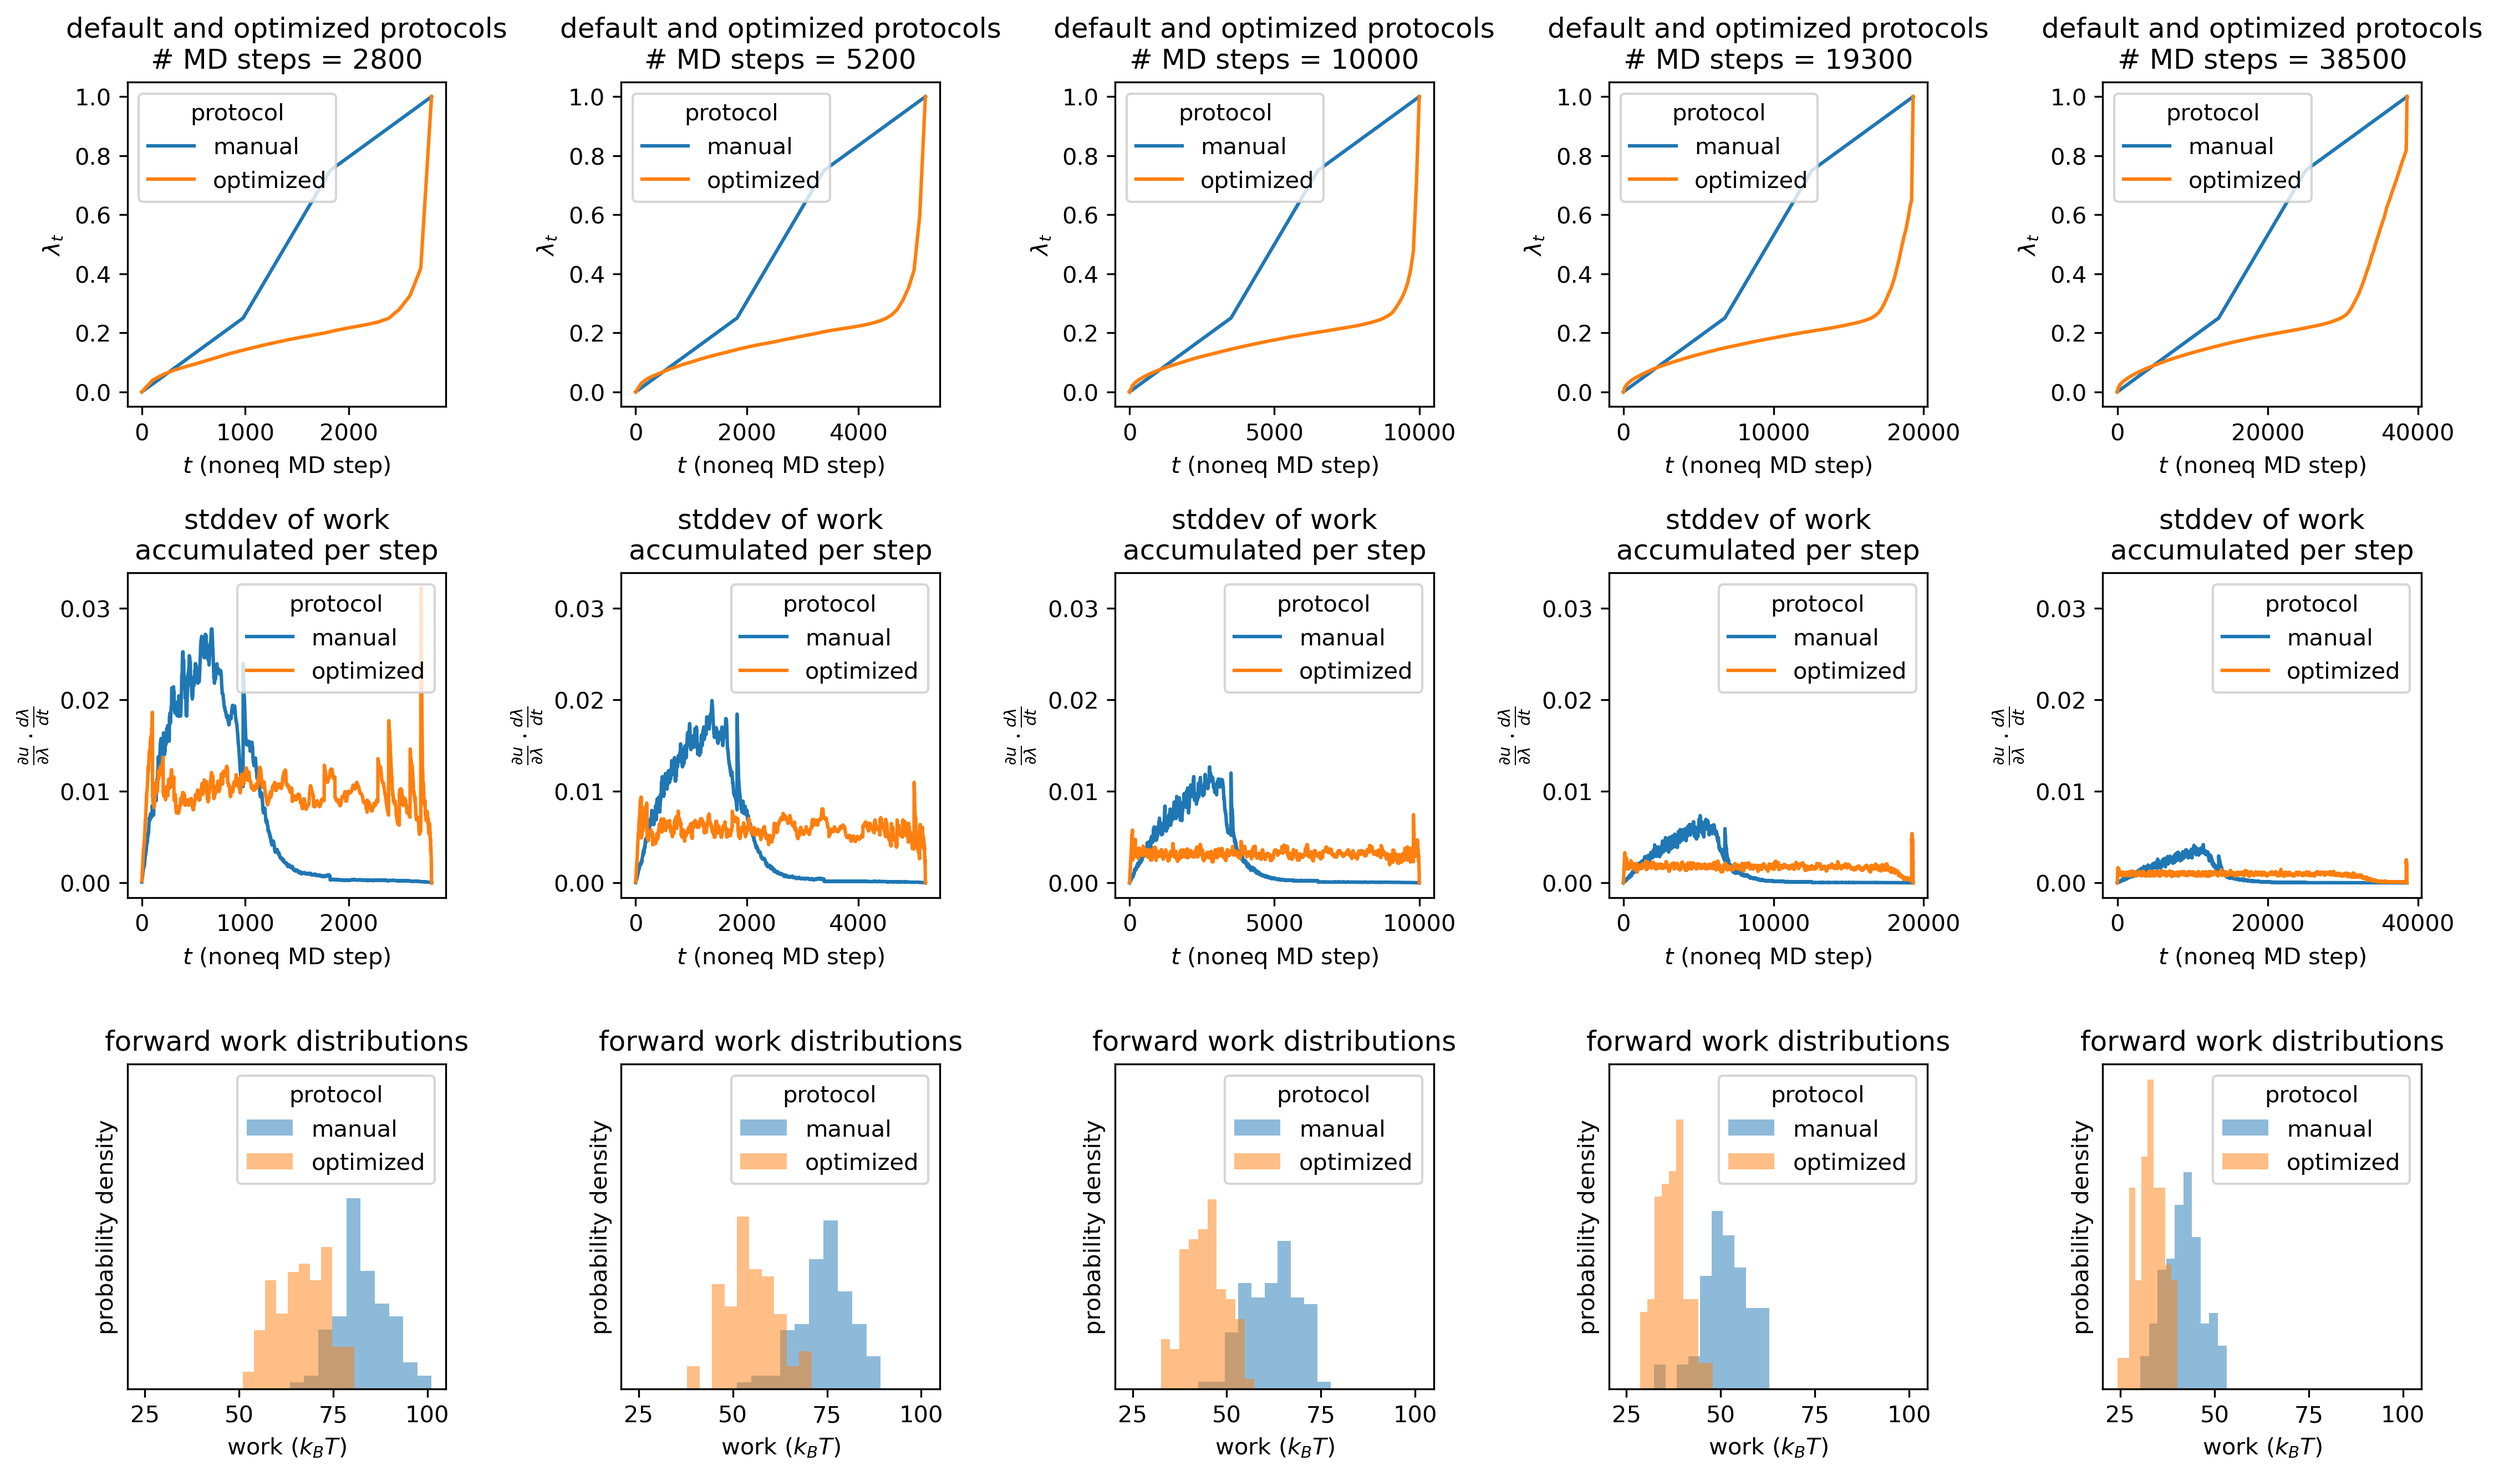
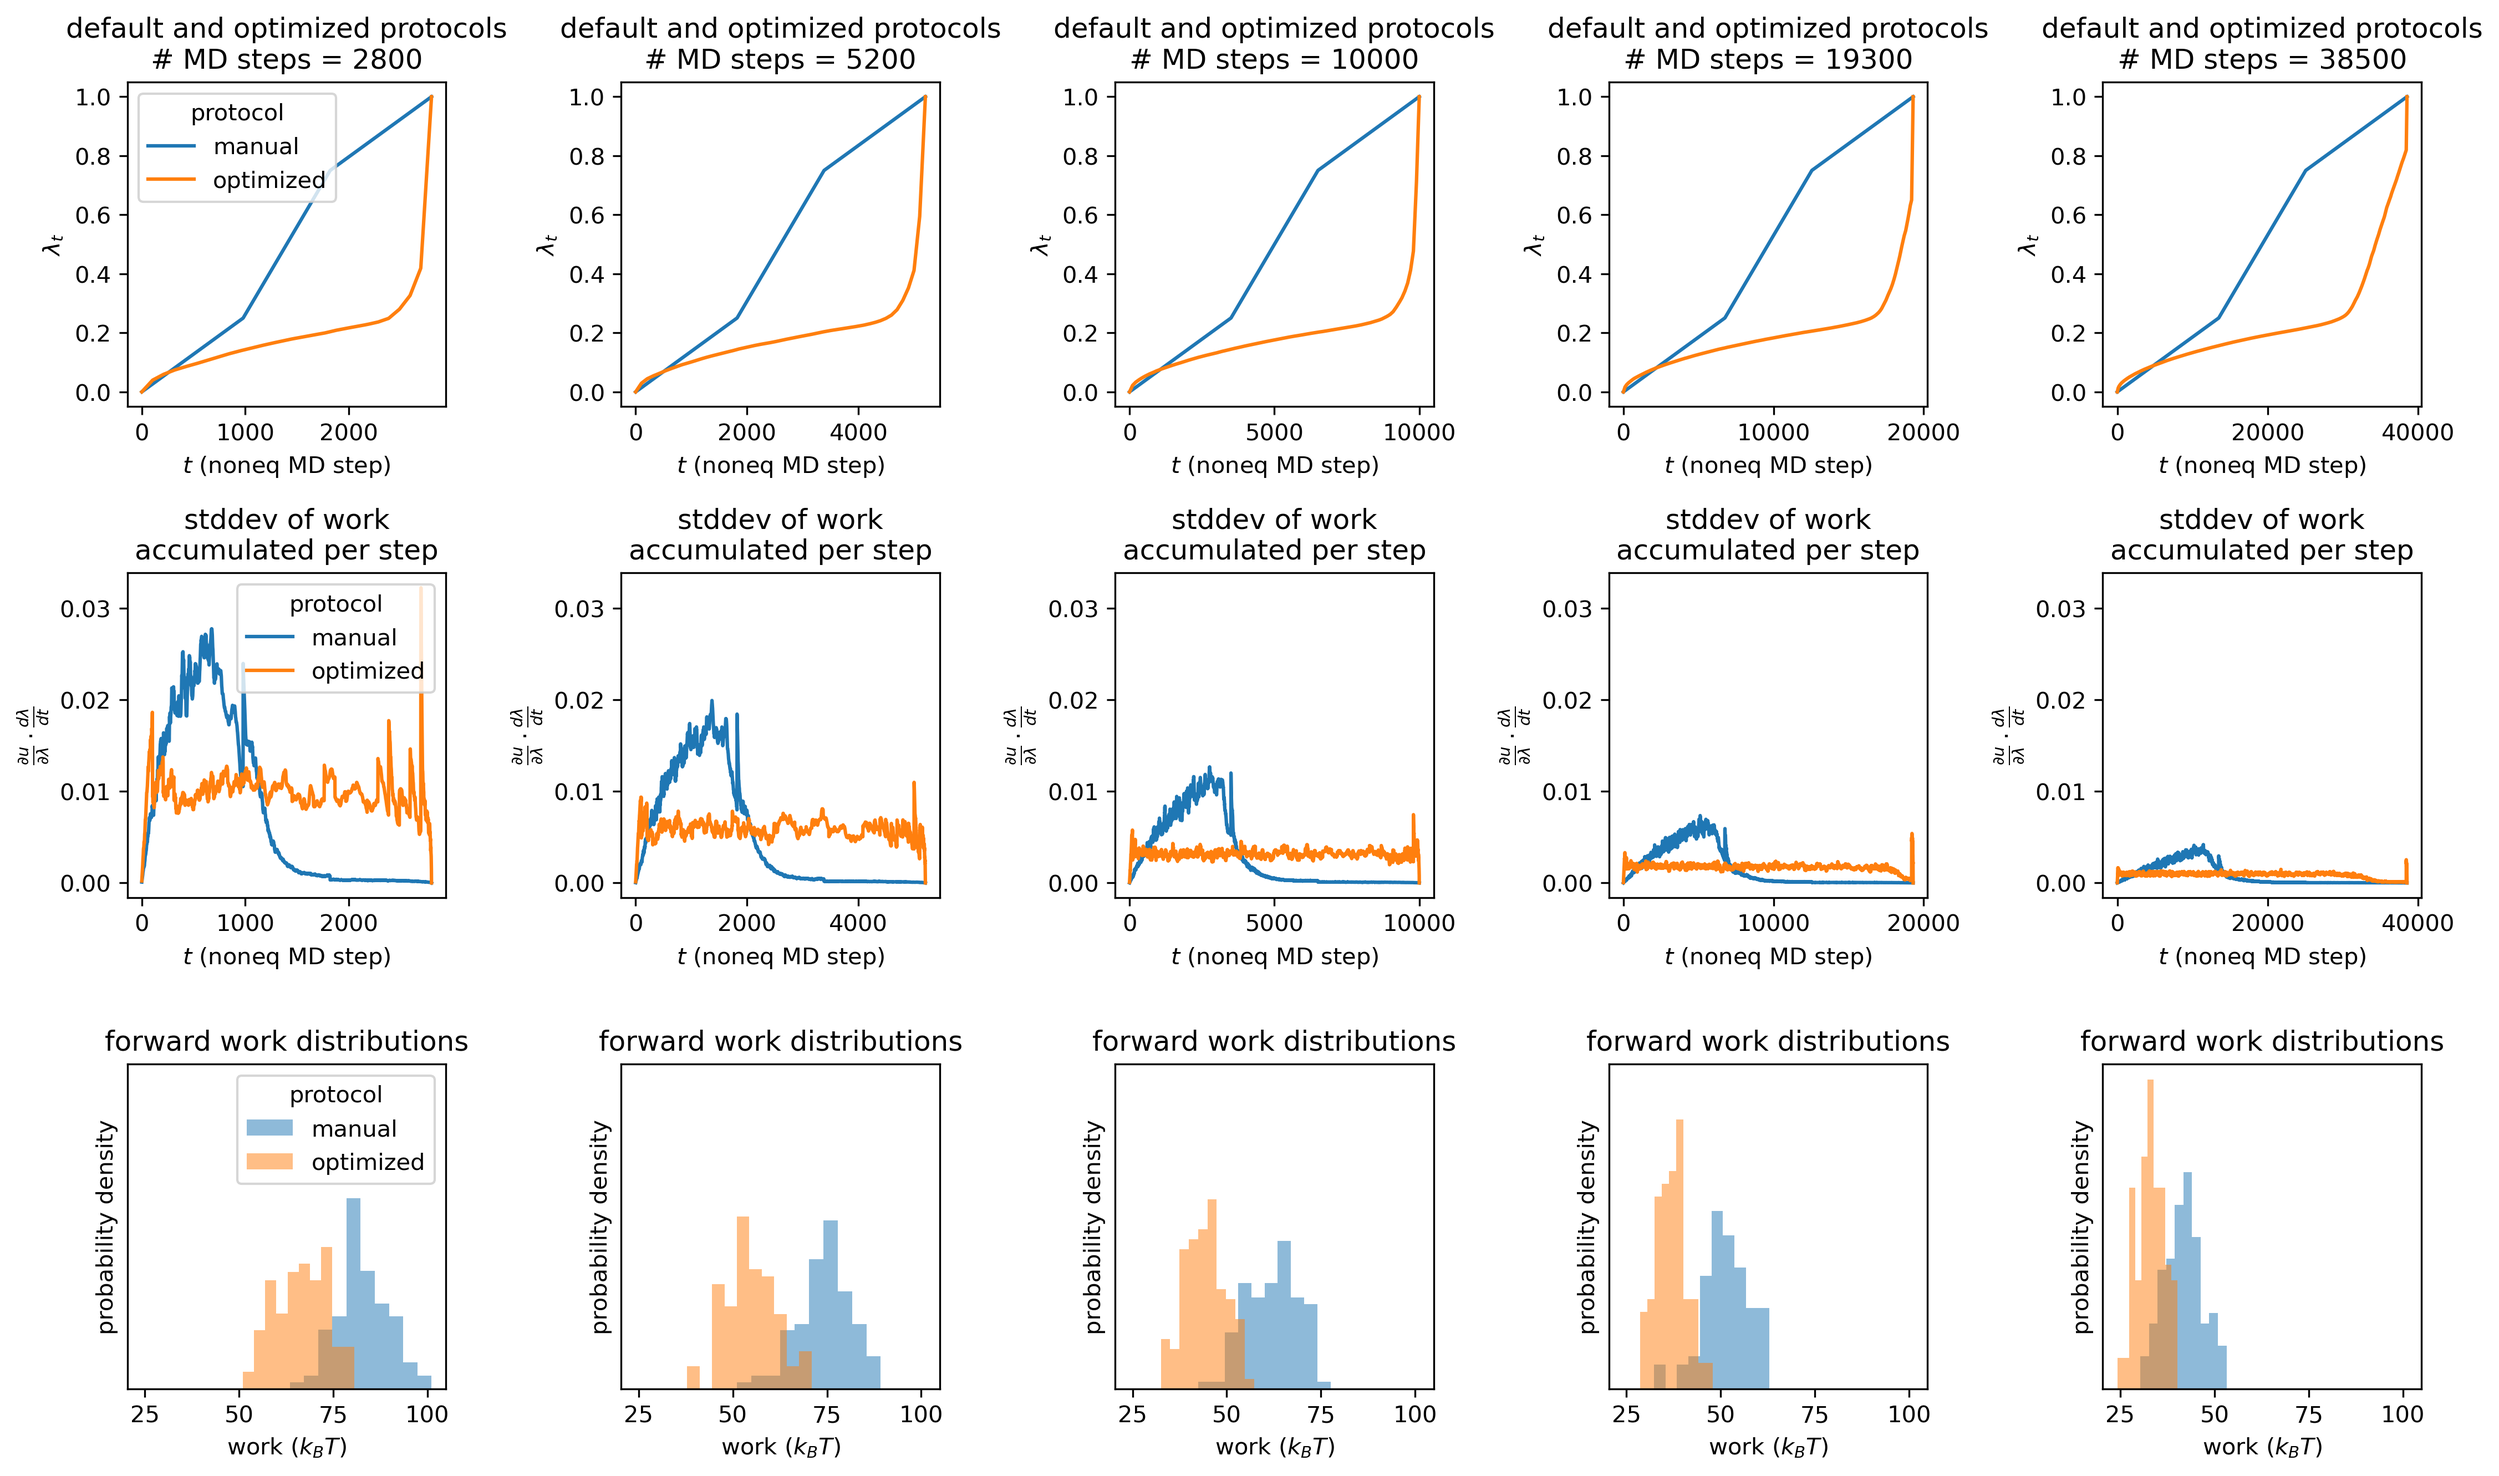
Remove some legends

diff --git a/scripts/noneq_adaptation/plot.py b/scripts/noneq_adaptation/plot.py
@@ -7,7 +7,7 @@ from deploy import interpolate_lambda_schedule
 hist_kwargs = dict(density=True, alpha=0.5)
 
 
-# TODO: reduce duplication of titles and legends
+# TODO: reduce duplication of titles and axis labels
 
 def plot_lambda_schedules(n_md_steps, optimized_lam_traj):
     x = np.arange(n_md_steps)
@@ -21,7 +21,7 @@ def plot_lambda_schedules(n_md_steps, optimized_lam_traj):
     plt.plot(x, default, label='manual')
     plt.plot(x, optimized, label='optimized')
 
-    plt.legend(title='protocol')
+    # plt.legend(title='protocol')
 
 
 def plot_work_accumulation_stddev(du_dl_trajs_default, du_dl_trajs_optimized, optimized_lam_traj):
@@ -38,7 +38,7 @@ def plot_work_accumulation_stddev(du_dl_trajs_default, du_dl_trajs_optimized, op
     plt.plot(x[1:], du_dl_trajs_default.std(0)[1:] * np.diff(default), label='manual')
     plt.plot(x[1:], du_dl_trajs_optimized.std(0)[1:] * np.diff(optimized), label='optimized')
 
-    plt.legend(title='protocol')
+    # plt.legend(title='protocol')
 
 
 def plot_work_histograms(works_default, works_optimized):
@@ -51,7 +51,7 @@ def plot_work_histograms(works_default, works_optimized):
     plt.hist(works_default, label='manual', **hist_kwargs)
     plt.hist(works_optimized, label='optimized', **hist_kwargs)
 
-    plt.legend(title='protocol')
+    # plt.legend(title='protocol')
 
 
 if __name__ == '__main__':
@@ -74,6 +74,8 @@ if __name__ == '__main__':
         n_md_steps = results['total_md_step_range'][i]
         ax = plt.subplot(3, n_conditions, i + 1, sharey=ax)
         plot_lambda_schedules(n_md_steps, optimized_lam_trajs[str(i)])
+        if i == 0:
+            plt.legend(title='protocol')
 
     # row 2: plot work accumulation over course of protocol...
     ax = None
@@ -87,6 +89,8 @@ if __name__ == '__main__':
             du_dl_trajs_optimized[str(n_md_steps)],
             optimized_lam_trajs[str(i)]
         )
+        if i == 0:
+            plt.legend(title='protocol')
 
     # row 3: plot final work histograms
     the_big_zipper = zip(results['total_md_step_range'], results['works_default'], results['works_optimized'])
@@ -95,6 +99,8 @@ if __name__ == '__main__':
         plot_ind = (2 * n_conditions) + i + 1
         ax = plt.subplot(3, n_conditions, plot_ind, sharex=ax, sharey=ax)
         plot_work_histograms(w_default, w_optimized)
+        if i == 0:
+            plt.legend(title='protocol')
 
     plt.tight_layout()
 
